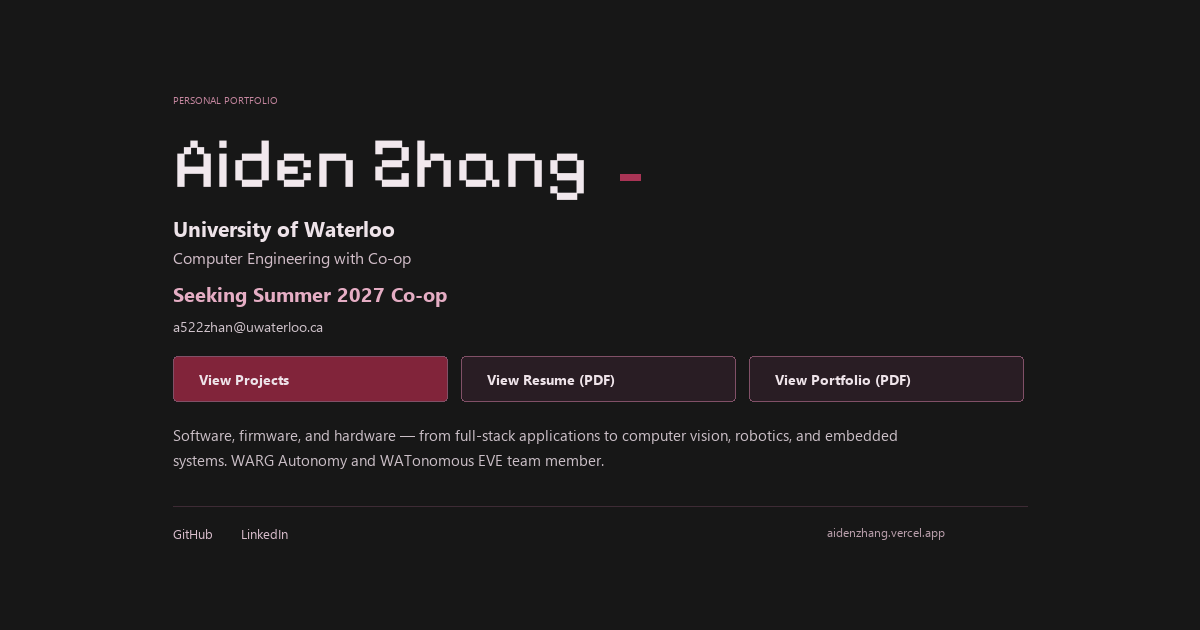
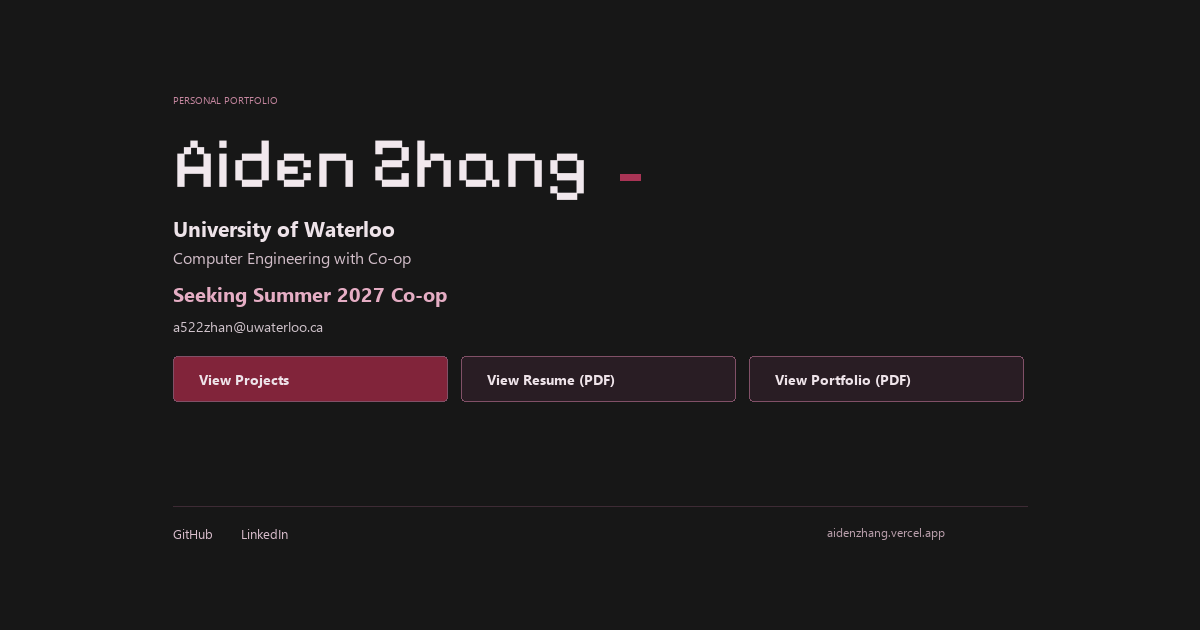
Edit preview screen

diff --git a/scripts/render-social-preview.py b/scripts/render-social-preview.py
@@ -37,7 +37,7 @@ buttons=[('View Projects','#81243a'),('View Resume (PDF)','#291d24'),('View Port
 for i,(label,color) in enumerate(buttons):
  bx=x+i*288;d.rounded_rectangle((bx,384,bx+274,429),radius=4,fill=color,outline='#815067');text(bx+26,397,label,14,bold=True)
 intro="Software, firmware, and hardware — from full-stack applications to computer vision, robotics, and embedded systems. WARG Autonomy and WATonomous EVE team member."
-for i,line in enumerate(textwrap.wrap(intro,width=109)):text(x,452+i*25,line,15,fill='#cbbfc7')
+# Keep the sharing preview focused on the introduction and main actions.
 d.line((x,534,1120,534),fill='#3e2b35');text(x,552,'GitHub       LinkedIn',13,fill='#d9bdcc');text(920,552,'aidenzhang.vercel.app',12,fill='#bba0ad')
 d.rectangle((19,587,1181,612),fill='#100e10');text(34,591,'© 2026 Aiden Zhang',10,fill='#af9aa5')
 # Share only the intro content, without the desktop frame or navigation.
